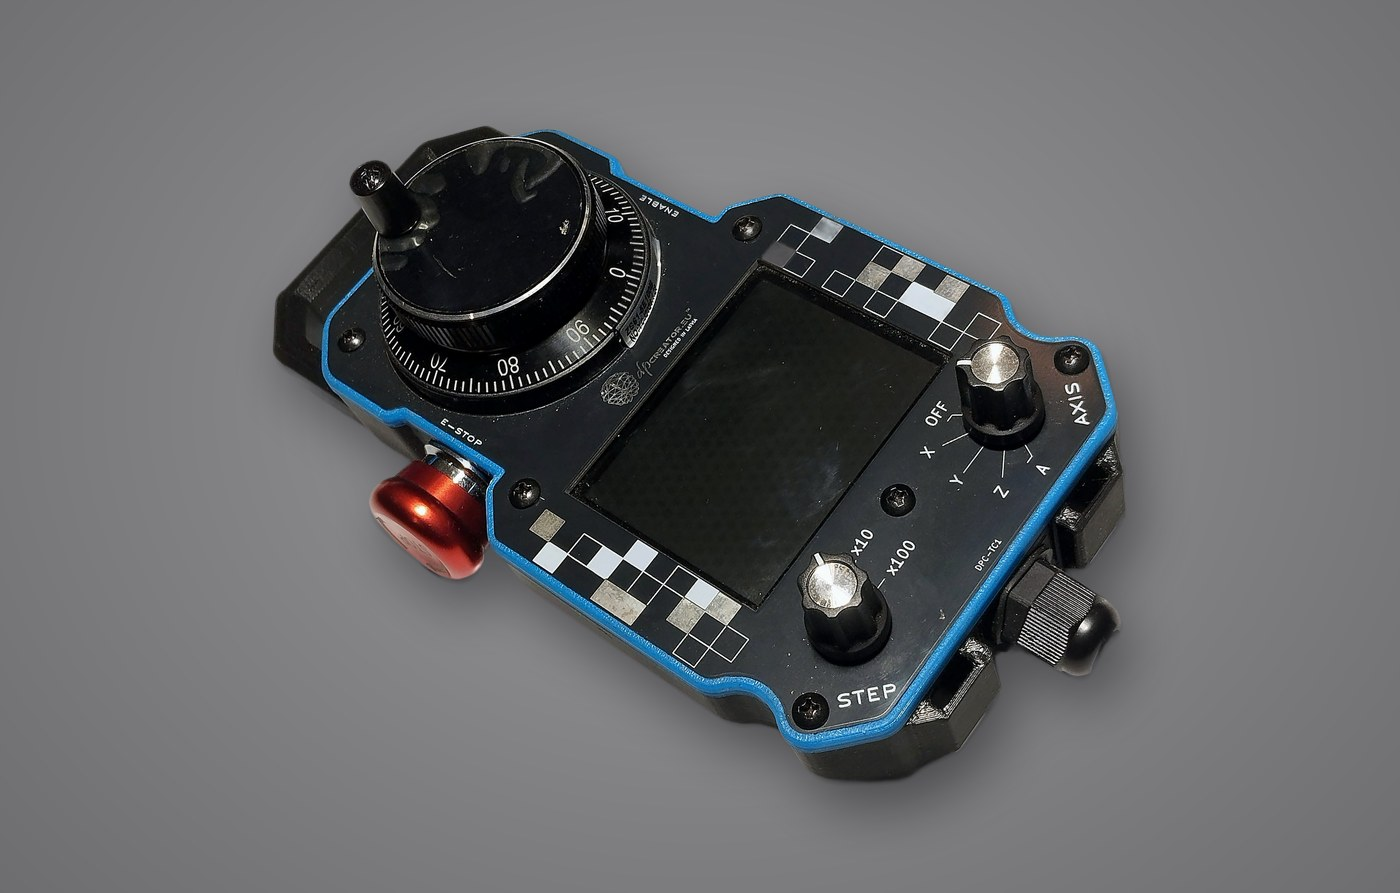
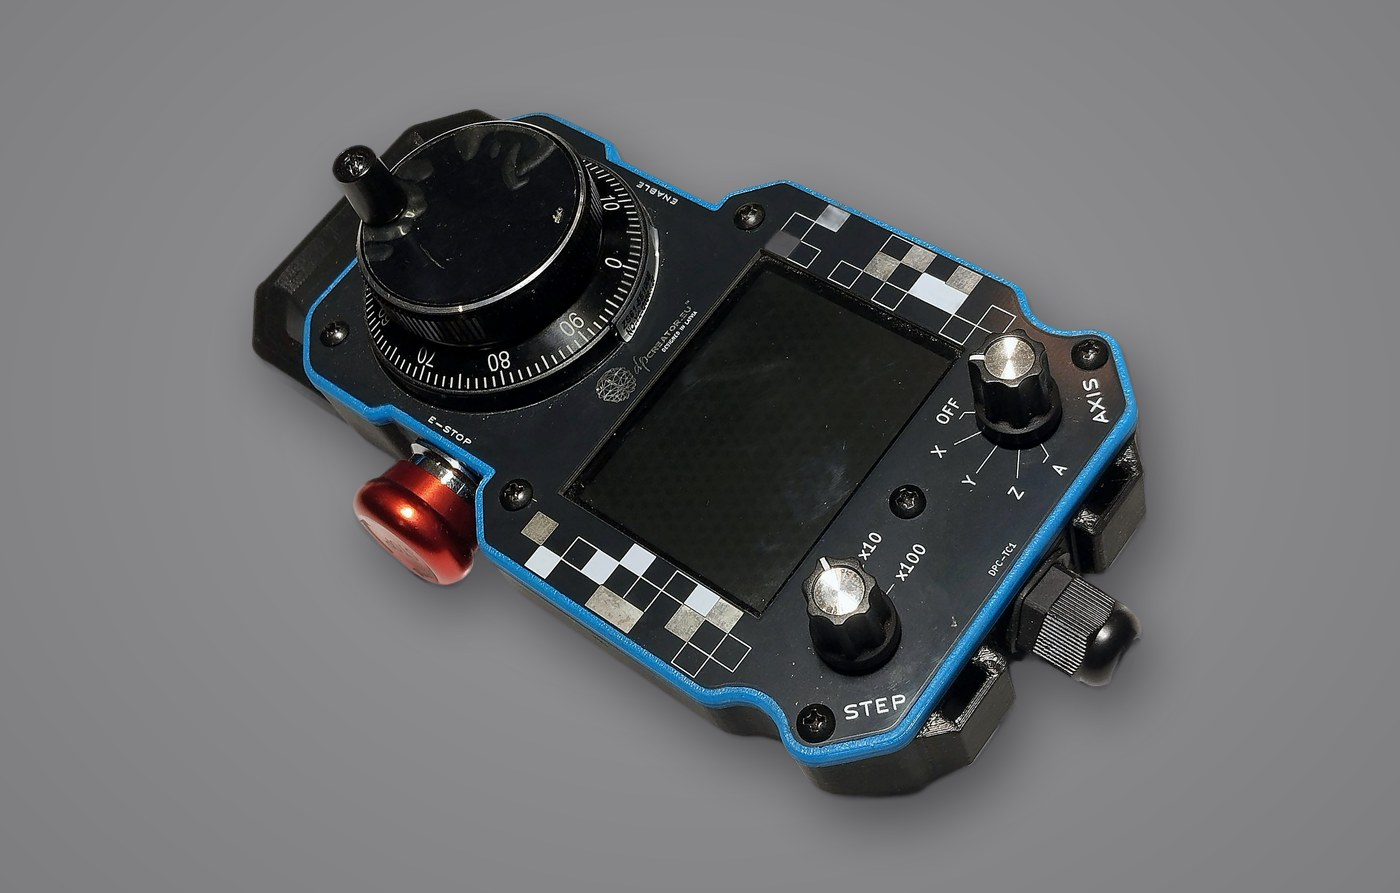
Studio hero v2

Changed region(s): [[0.1536, 0.1209, 0.8293, 0.9071]]

diff --git a/deploy/hero2.html b/deploy/hero2.html
@@ -1,3 +1,3 @@
 <figure class="dpx-drawing"><div class="dpx-render"><img src="image/catalog/dpc-site/hero-tabui-studio.jpg" alt="TabUi pendant: handwheel, touch display, E-stop, axis and step selectors and cable" width="1400" height="893"></div>
-  <svg class="dpx-callouts" viewBox="0 0 1400 893" preserveAspectRatio="xMidYMid meet" aria-hidden="true"><g class="dpx-co "><circle cx="500" cy="265" r="9"/><circle cx="500" cy="265" r="3" class="dpx-dot"/><polyline points="500,265 500,80 40,80"/><text x="40" y="68" text-anchor="start" style="paint-order:stroke;stroke:#2a2d31;stroke-width:9px;stroke-linejoin:round">60 mm MPG handwheel</text></g><g class="dpx-co dpx-red"><circle cx="430" cy="538" r="9"/><circle cx="430" cy="538" r="3" class="dpx-dot"/><polyline points="430,538 40,538"/><text x="40" y="526" text-anchor="start" style="paint-order:stroke;stroke:#2a2d31;stroke-width:9px;stroke-linejoin:round">Hardware E-stop</text></g><g class="dpx-co "><circle cx="760" cy="440" r="9"/><circle cx="760" cy="440" r="3" class="dpx-dot"/><polyline points="760,440 760,110 1360,110"/><text x="1360" y="98" text-anchor="end" style="paint-order:stroke;stroke:#2a2d31;stroke-width:9px;stroke-linejoin:round">2.8″ touch display</text></g><g class="dpx-co "><circle cx="995" cy="375" r="9"/><circle cx="995" cy="375" r="3" class="dpx-dot"/><polyline points="995,375 1100,300 1360,300"/><text x="1360" y="288" text-anchor="end" style="paint-order:stroke;stroke:#2a2d31;stroke-width:9px;stroke-linejoin:round">Axis selector</text></g><g class="dpx-co "><circle cx="850" cy="565" r="9"/><circle cx="850" cy="565" r="3" class="dpx-dot"/><polyline points="850,565 850,810 1360,810"/><text x="1360" y="798" text-anchor="end" style="paint-order:stroke;stroke:#2a2d31;stroke-width:9px;stroke-linejoin:round">Step ×1 / ×10 / ×100</text></g><g class="dpx-co "><circle cx="1062" cy="600" r="9"/><circle cx="1062" cy="600" r="3" class="dpx-dot"/><polyline points="1062,600 1140,660 1360,660"/><text x="1360" y="648" text-anchor="end" style="paint-order:stroke;stroke:#2a2d31;stroke-width:9px;stroke-linejoin:round">5-wire cable to controller</text></g></svg>
+  <svg class="dpx-callouts" viewBox="0 0 1400 893" preserveAspectRatio="xMidYMid meet" aria-hidden="true"><g class="dpx-co "><circle cx="477" cy="243" r="9"/><circle cx="477" cy="243" r="3" class="dpx-dot"/><polyline points="477,243 500,80 40,80"/><text x="40" y="68" text-anchor="start" style="paint-order:stroke;stroke:#2a2d31;stroke-width:9px;stroke-linejoin:round">60 mm MPG handwheel</text></g><g class="dpx-co dpx-red"><circle cx="399" cy="547" r="9"/><circle cx="399" cy="547" r="3" class="dpx-dot"/><polyline points="399,547 40,538"/><text x="40" y="526" text-anchor="start" style="paint-order:stroke;stroke:#2a2d31;stroke-width:9px;stroke-linejoin:round">Hardware E-stop</text></g><g class="dpx-co "><circle cx="767" cy="438" r="9"/><circle cx="767" cy="438" r="3" class="dpx-dot"/><polyline points="767,438 760,110 1360,110"/><text x="1360" y="98" text-anchor="end" style="paint-order:stroke;stroke:#2a2d31;stroke-width:9px;stroke-linejoin:round">2.8″ touch display</text></g><g class="dpx-co "><circle cx="1029" cy="366" r="9"/><circle cx="1029" cy="366" r="3" class="dpx-dot"/><polyline points="1029,366 1100,300 1360,300"/><text x="1360" y="288" text-anchor="end" style="paint-order:stroke;stroke:#2a2d31;stroke-width:9px;stroke-linejoin:round">Axis selector</text></g><g class="dpx-co "><circle cx="867" cy="578" r="9"/><circle cx="867" cy="578" r="3" class="dpx-dot"/><polyline points="867,578 850,810 1360,810"/><text x="1360" y="798" text-anchor="end" style="paint-order:stroke;stroke:#2a2d31;stroke-width:9px;stroke-linejoin:round">Step ×1 / ×10 / ×100</text></g><g class="dpx-co "><circle cx="1104" cy="617" r="9"/><circle cx="1104" cy="617" r="3" class="dpx-dot"/><polyline points="1104,617 1140,660 1360,660"/><text x="1360" y="648" text-anchor="end" style="paint-order:stroke;stroke:#2a2d31;stroke-width:9px;stroke-linejoin:round">5-wire cable to controller</text></g></svg>
   <figcaption style="position:static;text-align:right;margin-top:8px">TabUi pendant</figcaption></figure>
